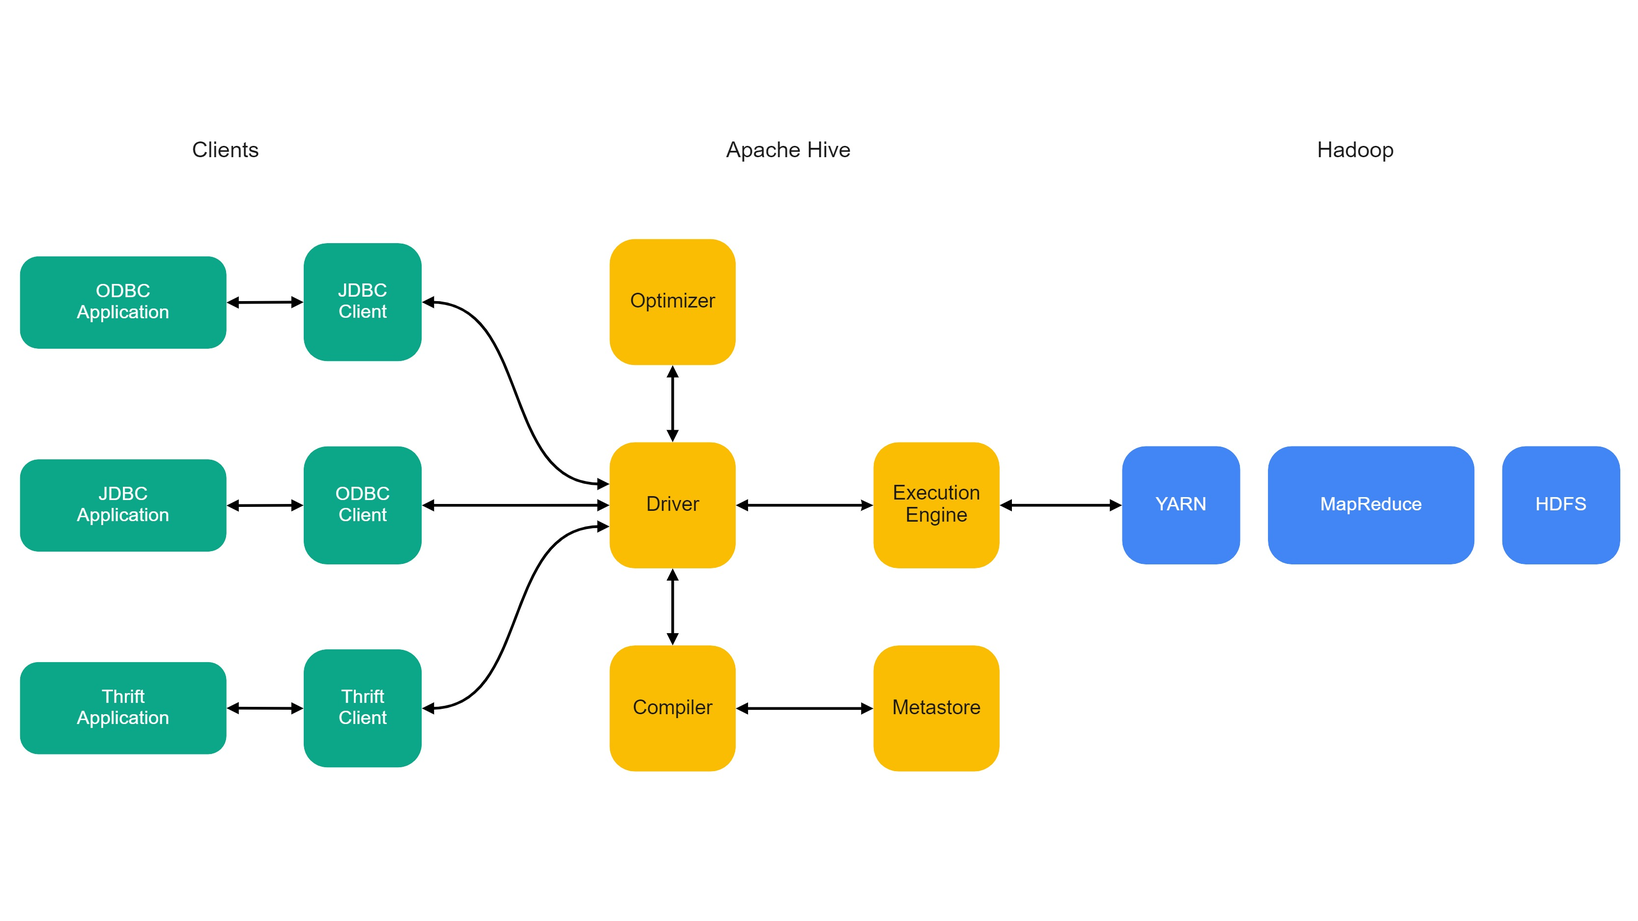
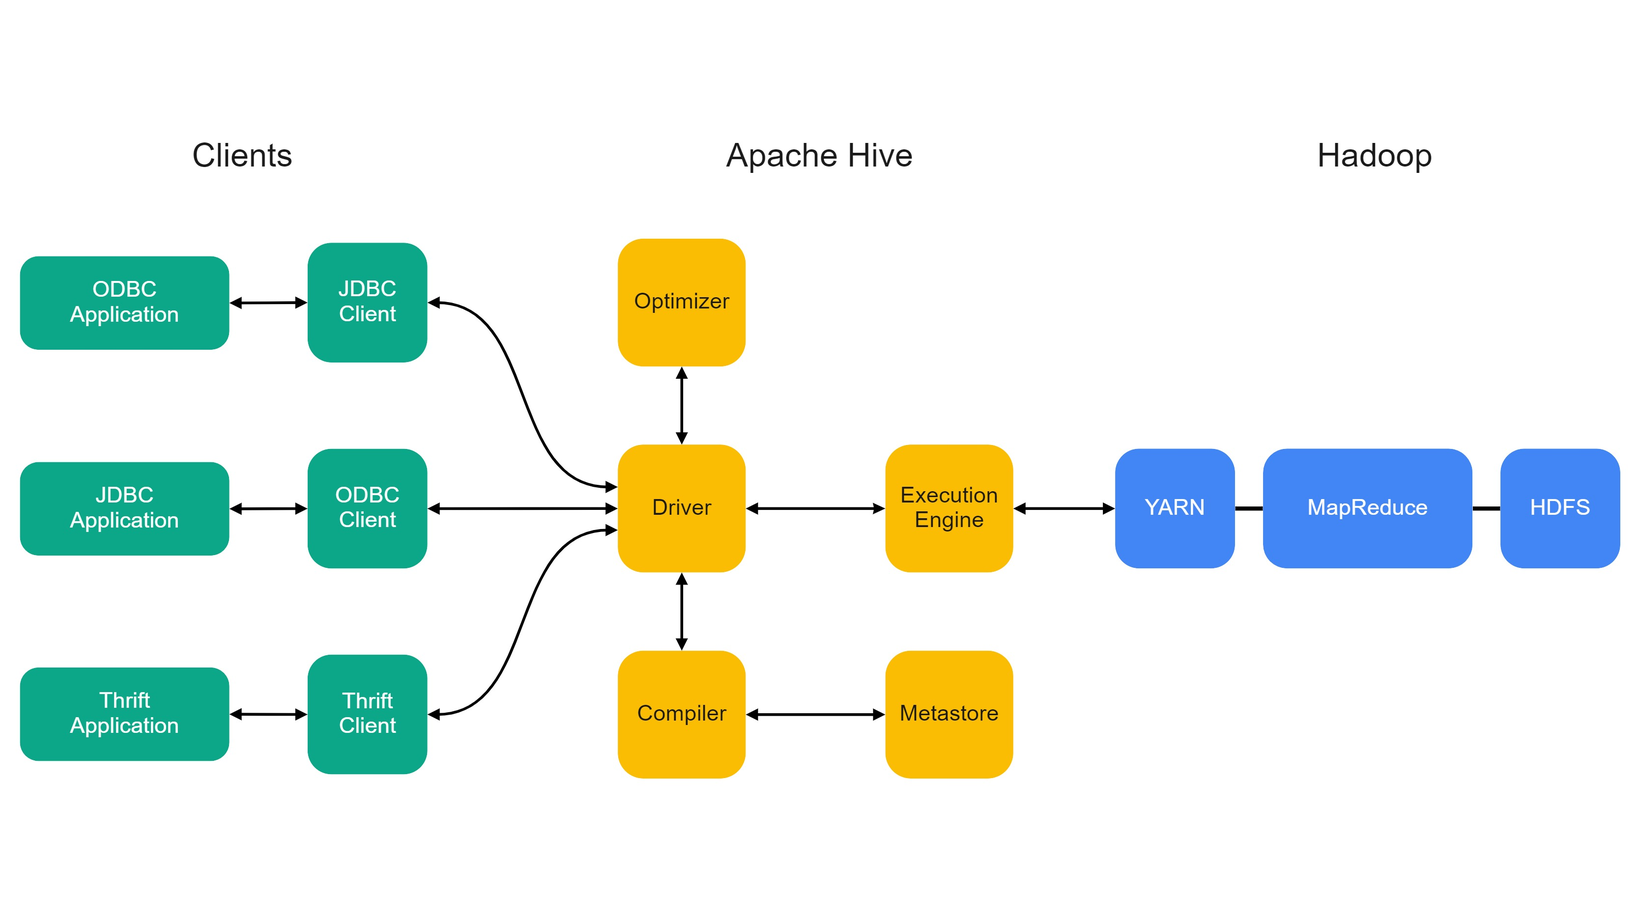
Add two paragraph to Apache Druid section

diff --git a/thesis.md b/thesis.md
@@ -5,7 +5,7 @@ subject: Evaluating performances of enterprise data lake solutions for MIND Food
 keywords: [Big Data, Data Lake, Performance Testing, Apache Hive, Apache Druid]
 ---
 
-<img src="C:\Users\Gabriele\AppData\Roaming\Typora\typora-user-images\image-20220202212948471.png" alt="image-20220202212948471" />
+<img src="./content/logo_statale.png" alt="Università degli Studi di Milano" />
 
 
 
@@ -89,7 +89,7 @@ The computing infrastructure, made by different modules, consists in:
 - Different software collection agents collect data from the rover and the on-field sensors and upload them to the Data Lake
 - A Data Lake platform to store sensor's data and supports data analysis
 - An hybrid GraphQL/REST API developed in Rust to access and consume data stored in the Data Lake platform
-- A client application to visualize raw and processed sensors data and by reading a QRcode that identifies a specific cultivation
+- FoodsAPP, a client application: a user could scan QRcode that identifies a specific cultivation to visualize its raw and processed sensors data
 
 The implementation of the computing infrastructure involved various technological partners; TIM, the first Italian provider of fixed, mobile and cloud infrastructures, developed the 5G network, the on-field sensors, and the client application.
 Multiple departments of Università Degli Studi di Milano have been involved in the MIND Foods HUB project. 
@@ -132,7 +132,7 @@ Over time the three Vs concepts of Big Data have been complemented by two additi
 These Big Data concepts heavily changed the shape of traditional data management systems, like Data Warehouses, that now need to support parallel data processing, complex analytical workflow, resilient and flexible storage capable of efficiently persisting data from several sources. Also, with the rise of new Big Data technologies, further models to store and analyze data have been developed to take advantage of the emerging new Big Data technologies; one for all: Data Lake systems.
 
 Historically, organizations that need to reconcile data from different Online Transaction Processing (**OLTP**) data sources employed a Data Warehouse system.
-A Data Warehouse is a system used for reporting and data analysis that store historical, time-variant collection of data in a single repository [14], typically operated by business end-users to support management's decision.
+A Data Warehouse is a system used for reporting and data analysis that store historical, time-variant collection of data in a single repository [15], typically operated by business end-users to support management's decision.
 Since data ingested into Data Warehouses usually comes from relational OLTP systems, the most used data processing paradigm in data warehousing is Extract, Transform, Load (**ETL )**.
 
 <figure>
@@ -142,21 +142,22 @@ Since data ingested into Data Warehouses usually comes from relational OLTP syst
 
 The standard ETL approach expects to extract data from different sources, apply some data transformation to adhere to the schema adopted to structure the data, and finally load it into the Data Warehouse. This process, also known as schema-on-write, allows efficient and fast reads operations at the cost of designing and maintaining a schema that describes the shape of the data.
 
-Data Lake is a term coined in 2011 by James Dixon [15], founder and former CTO of Pentaho: a Data Lake is a repository that stores large quantities and varieties of data in their raw format, independently from their source or structure. 
+Data Lake is a term coined in 2011 by James Dixon [16], founder and former CTO of Pentaho: a Data Lake is a repository that stores large quantities and varieties of data in their raw format, independently from their source or structure. 
 Unlike traditional Data Warehouses, which pursues an ETL approach, Data Lake systems use an Extract, Load, Transform (**ELT**) data processing paradigm. 
 
 <figure>
     <img src="./content/Data Lake.jpg"/>
     <figcaption>Figure 4: ELT</subfigcaption
 </figure>
-
 ELT doesn't apply any prior data transformation since a Data Lake can store structured, semi-structured or unstructured data. Instead, data is ingested as soon as it becomes available in its raw format, allowing for fast write operations and the advantage of preserving the original data structure. 
 Then, only during a particular analysis the required data is extracted and transformed in a structure suited to be interpreted, applying what is described as a schema-on-read process.
+
+<div style="page-break-after: always; visibility: hidden;"></div>
 
 ### 1.2 Hadoop
 
 Hadoop is an open-source framework that enables reliable, scalable, distributed computing.
-Started in 2002 as an open-source project by Doug Cutting and Mike Cafarella, that was developing a search engine capable to index 1 billion pages, the first version of Hadoop implemented two powerful computing concepts introduced by Google in 2003 and 2004: Google File System (**GFS**) [16], a scalable distributed file system for large distributed data-intensive applications, and MapReduce [17], a programming model for processing and generating large data sets.
+Started in 2002 as an open-source project by Doug Cutting and Mike Cafarella, that was developing a search engine capable to index 1 billion pages, the first version of Hadoop implemented two powerful computing concepts introduced by Google in 2003 and 2004: Google File System (**GFS**) [17], a scalable distributed file system for large distributed data-intensive applications, and MapReduce [18], a programming model for processing and generating large data sets.
 
 So, at its core, Hadoop is composed of two modules: storage and processing. The storage component is the Hadoop Distributed File System (**HDFS**), while the processing component is **MapReduce**.
 
@@ -220,7 +221,7 @@ The computing and storage nodes are the same, so the MapReduce framework and HDF
 
 #### YARN
 
-MapReduce jobs are scheduled by Hadoop's "Yet Another Resource Negotiator" (**YARN**) [18]. This Hadoop layer decouples the programming model from the resource management infrastructure and delegates many scheduling functions to per-application components.
+MapReduce jobs are scheduled by Hadoop's "Yet Another Resource Negotiator" (**YARN**) [19]. This Hadoop layer decouples the programming model from the resource management infrastructure and delegates many scheduling functions to per-application components.
 YARN, at its core, is composed of two processes: the **ResourceManager** and the **NodeManager**. 
 The ResourceManager is a process that runs on a dedicated node and is responsible for arbitrating cluster's resources among various contending jobs and scheduling job execution depending on resources availability.
 YARN resources are called *containers*, a logical set of resources (for example, 2 GB of RAM, 1 CPU) bound to a specific node of the cluster and reserved for executing a MapReduce job.
@@ -234,6 +235,8 @@ The TimelineServer collects the historical states for each completed MapReduce j
 - The elapsed time for the job execution
 - The final status of the job (succeeded, failed, etc.)
 - The allocated memory and virtual cores per container
+
+<div style="page-break-after: always; visibility: hidden;"></div>
 
 ### 1.3 Apache Hive
 
@@ -250,9 +253,10 @@ Apache Hive is engineered to be scalable, as more machines can be dynamically ad
 #### Design
 
 <figure>
-    <img src="./content/Apache Hive Architecture - Horizontal.jpg" alt="Query execution flow in Apache Hive" style="zoom: 67%;" />
+    <img src="./content/Apache Hive Architecture - Horizontal.jpg" alt="Query execution flow in Apache Hive" />
     <figcaption>Figure 7: Apache Hive architecture</figcaption>
 </figure>
+
 
 Figure 7 shows the architecture of Apache Hive and its main components:
 
@@ -266,12 +270,11 @@ Figure 7 shows the architecture of Apache Hive and its main components:
 
 #### Query execution
 
-
 When the Driver receives a query from a client, it creates a session handle for that client and forwards the query to the Compiler:
 
 1. The Compiler retrieves the necessary metadata from the Metastore; metadata is used to type-check the query expressions and eventually prune partitions data based on query predicates.
 2. The Compiler produces a query execution plan in the form of a DAG, where each vertex is a MapReduce job to be executed
-2. The Optimizer apply column pruning and other optimizations to the query execution plan
+2. The Optimizer applies column pruning and other optimizations to the query execution plan
 2. The Execution engine submits each MapReduce job of the query execution plan to Hadoop for parallel processing
 2. In each task, the SerDe deserializer associated with the table is used to read the rows from HDFS files and to return data to the client
 
@@ -288,7 +291,7 @@ For example, a query on T that satisfies the predicate `T.date='2022-02-02` woul
 
 #### SQL capabilities
 
-HiveQL supports all basic DDL and DML operations to work with tables and partitions; to name a few: the ability to select only specific columns using a `SELECT` clause, rows filtering using a `WHERE` clause, equi-joins between tables, data aggregations with multiple `GROUP BY` columns, store the results of a query into another table, manage databases, tables and partitions with the `CREATE`, `DROP` and `ALTER` statements.
+HiveQL supports all basic DDL, DQL and DML operations to work with tables and partitions; to name a few: the ability to select only specific columns using a `SELECT` clause, rows filtering using a `WHERE` clause, equi-joins between tables, data aggregations with multiple `GROUP BY` columns, store the results of a query into another table, manage databases, tables and partitions with the `CREATE`, `DROP` and `ALTER` statements.
 
 #### Ingestion
 
@@ -323,6 +326,8 @@ For example, the following statements create an external table `T` that points t
    INSERTO INTO V VALUES('Pi', 3.1415)
    ```
 
+<div style="page-break-after: always; visibility: hidden;"></div>
+
 ### 1.4 Apache Druid
 
 Apache Druid is an open-source distributed data store that supports various modern applications, like real-time analytics on large data-sets and fast data aggregations for highly concurrent APIs.
@@ -337,7 +342,7 @@ Apache Druid architecture combines ideas from different storage systems (Data Wa
 
 #### Design
 
-Apache Druid is a multi-process distributed data store designed to be deployed in a cluster. Each system component can be configured and scaled independently depending on the system's needs.
+Apache Druid is a multi-process distributed data store designed to be deployed in a cluster. Each system component can be configured and scaled independently based on the system's needs.
 Apache Druid processes are the following:
 
 - **Coordinator**: it is responsible for managing data availability and distribution on the cluster. The Coordinator instructs the Historical process to load new segments, drop outdated segments, ensure that segments are correctly replicated across the Historical process, and distribute segments between Historical nodes to keep the latter evenly loaded.
@@ -345,7 +350,7 @@ Apache Druid processes are the following:
 - **Broker**: it is responsible for forwarding queries to the Historical processes, depending on the location of the segments.
   A Broker understands what segments exist on what Historical processes depending on the time partitioning and route queries to execute them on the correct nodes. The Broker also merges the result sets of a query from all individual Historical involved in the load operation.
 - **Historical**: it stores historical queryable data. Since Druid data is time partitioned into segments, each Historical process, usually multiple per cluster, is responsible for loading and serving data about a specific segment when instructed by the Coordinator or the Broker. Data is generally stored in a distributed file system and loaded into Historical memory every time a read/write operation is requested.
-**Overlord**: it is responsible for accepting ingestion tasks, assigning them to the MiddleManagers and coordinating data publishing on the distributed storage.
+- **Overlord**: it is responsible for accepting ingestion tasks, assigning them to the MiddleManagers and coordinating data publishing on the distributed storage.
 - **MiddleManager**: it handles ingestion of new data into the cluster; MiddleManagers are responsible for reading data from external sources and publishing new Druid segments.
 
 <figure>
@@ -359,26 +364,41 @@ Master servers manage data ingestion and availability; they are composed of the 
 Apache Druid also relies on three external dependencies: **Deep storage**, covered in the related section, **Metadata** **storage**, and **ZooKeeper**.
 The Metadata storage stores various system metadata, like the number of segments available on the cluster and their usage, internal task status, etc. It is typically employed as an external relational database on clustered deployments, like MySQL or PostgreSQL.
 
-ZooKeeper is an open-source coordination service [19] used to maintain centralized configuration, naming, and synchronization for distributed applications. For example, Apache Druid uses ZooKeeper for internal service discovery, coordination between the processes, and leader election.
+ZooKeeper is an open-source coordination service [20] used to maintain centralized configuration, naming, and synchronization for distributed applications. For example, Apache Druid uses ZooKeeper for internal service discovery, coordination between the processes, and leader election.
 
 #### Query Execution
 
 Apache Druid query execution follows a Scatter/Gather [20] approach to retrieve data from the Historical processes;
 The execution flow is the following:
 
-1. The Broker identifies
+1. A client submits a query to the Broker (or the Router) via HTTP or by using the Apache Avatica JDBC drivers
+1. The Broker identifies which segments are pertinent to the query based on the time interval specified by the query
+1. The Broker eventually prune the identified segments based on the `WHERE` clause
+1. The Broker forwards the query to the relevant Historical processes
+1. Historicals process each segment in parallel and generate a partial result
+1. The Broker receives partial results from each Historical, merge them into the final results set and return the data to the caller
 
 #### Data model and Storage
 
-Apache Druid data model
+Apache Druid data is organized into **datasources**, similar to relational databases tables: homogenous units of data within the same schema. A datasource must always include a primary timestamp that Druid stores in the `__time` column of the datasource. The primary timestamp is used to partition, sort, and manage the data across the Historical processes.
+
+Datasources columns are of two types: **dimensions** and **metrics**. Dimensions are columns that Druid stores in their original format, and represents the relevant and descriptive attributes of the data; they can be filtered, grouped, and aggregated at query time. Metrics are columns that Druid stores in an aggregated form; during ingestion, a user can apply an aggregation function (count, sum, min/max, etc.) to each computed row.
+
+Datasources are time partitioned: each time interval, for example, a month, is called a chunk;  a chunk is additionally partitioned into one or more segments. Formally, a segment is defined as a collection of rows of data, typically 5–10 million, that span an interval of time [21]. A segment comprises different files that store various data structures to arrange columns data so that Apache Druid can extract only those needed for a query.
+Depending on the column data type, two compression algorithms, LZ4 [22] and Roaring [23], are used to reduce the cost of storing a column in memory and on disk.
+Deep storage is an external, shared file system accessible by the cluster; Apache Druid uses Deep storage to store segments; typically, in a clustered deployment, Deep storage is a distributed file system like HDFS.
+It's important to note that Druid never accesses the Deep storage at query time: Historical processes load segments from the Deep storage when instructed by the Coordinator and serve them from their local disk as well from memory when the Broker requests a query.
 
 #### SQL capabilities
 
-Apache Druid SQL
+Apache Druid supports two query languages: Druid SQL, a declarative language similar to SQL, and native queries, which are JSON objects that describe how to filter, group, or aggregate data. Apache Druid automatically translates Druid SQL into a native query every time a query hits a Broker.
+Druid SQL capabilities are limited: it only supports `SELECT` queries. This means that DDL statements like CREATE`, `ALTER or DROP, or typical DML statements like `INSERT` and `UPDATE` are not supported. Also, Druid SQL only supports equality `JOIN` between native datasources.
 
 #### Ingestion
 
 Apache Druid ingestion
+
+<div style="page-break-after: always; visibility: hidden;"></div>
 
 ### 1.5 Apache JMeter
 
@@ -707,7 +727,7 @@ Data was loaded from the temporary HDFS folder on the NameNode using the followi
 <sub>Table 1: Ingestion numbers</sub>
 
 Table 1 reports the number of partitions, the data size on HDFS and the total disk space used for data replication, the computed ingestion time for each database. 
-It's worth observing that Apache Druid consume significantly less disk space on HDFS since it automatically compresses segment data with LZ4 [18] and Roaring [19] algorithms.
+It's worth observing that Apache Druid consume significantly less disk space on HDFS since it automatically compresses segment data with LZ4 and Roaring algorithms.
 Apache Druid was 55,8% faster than Apache Hive to import 50 million rows.
 
 ### 2.4 Queries
@@ -864,9 +884,8 @@ Therefore, all tests were executed in [CLI Mode](https://jmeter.apache.org/userm
 
 Each JMeter execution produced a CSV data-set containing the test results for each platform (one for Hive, the other for Druid); I imported test results in JMeter to calculate, for each sample: Average response time, Minimum response time, Maximum response time, and Average response time Standard Deviation.
 
-Also, I compared each query's Average response time with ResultsComparator [18] plugin to quantify the performance difference between Apache Hive and Apache Druid executions by calculating Cohen's *d* [19] of the samplers, which is one of the most popular measures of the effect size.
+Also, I compared each query's Average response time with ResultsComparator [] plugin to quantify the performance difference between Apache Hive and Apache Druid executions by calculating Cohen's *d* [] of the samplers, which is one of the most popular measures of the effect size.
 Cohen's *d* is defined as the difference between two means divided by a standard deviation for the data:
-
 $$
 d=\frac{\bar{x}_{1}-\bar{x}_{2}}{s}
 $$
@@ -1055,7 +1074,7 @@ Thesis conclusions.
 
 [8] The Apache Software Foundation, "Apache JMeter". [Internet]. Available from: https://jmeter.apache.org/
 
-[9] Arne von See, "Volume of data/information created, captured, copied, and consumed worldwide from 2010 to 2025" 2020.[Internet]. Available from: https://www.statista.com/statistics/871513/worldwide-data-created/
+[9] Arne von See, "Volume of data/information created, captured, copied, and consumed worldwide from 2010 to 2025" 2020. [Internet]. Available from: https://www.statista.com/statistics/871513/worldwide-data-created/
 
 [10] D. Reinsel, J. Gantz and J. Rydning," Data Age 2025: The Digitization of the World From Edge to Core" International Data Corporation, 2018.
 
@@ -1065,28 +1084,30 @@ Thesis conclusions.
 
 [13] L. Douglas, "3d data management: Controlling data volume, velocity and variety", Meta Group, 2001.
 
-[14] M. Schroeck, R. Shockley, J. Smart, D. Romero-Morales, P. Tufano, "Analytics: The Real-World Use of Big Data: How Innovative Enterprises Extract Value from Uncertain Data. Executive Report", IBM, 2012. [Online]. Available from: https://www.bdvc.nl/images/Rapporten/GBE03519USEN.PDF
+[14] M. Schroeck, R. Shockley, J. Smart, D. Romero-Morales, P. Tufano, "Analytics: The Real-World Use of Big Data: How Innovative Enterprises Extract Value from Uncertain Data. Executive Report", IBM, 2012. [Internet]. Available from: https://www.bdvc.nl/images/Rapporten/GBE03519USEN.PDF
 
-[14] W. Inmon, "Building the Data Warehouse", John Wiley and Sons, 2005.
+[15] W. Inmon, "Building the Data Warehouse", John Wiley and Sons, 2005.
 
-[15] J. Dixon, "Pentaho, Hadoop, and Data Lakes", 2010. [Internet]. Available from: https://jamesdixon.wordpress.com/2010/10/14/pentaho-hadoop-and-data-lakes/
+[16] J. Dixon, "Pentaho, Hadoop, and Data Lakes", 2010. [Internet]. Available from: https://jamesdixon.wordpress.com/2010/10/14/pentaho-hadoop-and-data-lakes/
 
-[16] S. Ghemawat, H. Gobioff, S. Leung, "The Google File System", "Proceedings of the 19th ACM Symposium on Operating Systems Principles", ACM, Bolton Landing, NY, pp. 20-43. 2003. [Internet] Available from: https://research.google/pubs/pub51/
+[17] S. Ghemawat, H. Gobioff, S. Leung, "The Google File System", "Proceedings of the 19th ACM Symposium on Operating Systems Principles", ACM, Bolton Landing, NY, pp. 20-43. 2003. [Internet] Available from: https://research.google/pubs/pub51/
 
-[17] J. Dean, S. Ghemawat, "MapReduce: Simplified Data Processing on Large Clusters", "OSDI 04: Sixth Symposium on Operating System Design and Implementation", San Francisco, CA, pp. 137-150, 2004. [Internet] Available from: https://research.google/pubs/pub62/
+[18] J. Dean, S. Ghemawat, "MapReduce: Simplified Data Processing on Large Clusters", "OSDI 04: Sixth Symposium on Operating System Design and Implementation", San Francisco, CA, pp. 137-150, 2004. [Internet]. Available from: https://research.google/pubs/pub62/
 
-[18] Vavilapalli VK, Murthy AC, Douglas C, Agarwal S, Konar M, Evans R, Graves T, Lowe J, Shah H, Seth S, "Apache Hadoop YARN: Yet another resource negotiator", Proceedings of the 4th Annual Symposium on Cloud Computing, Santa Clara, CA, USA, 1–3 October. ACM, New York, NY, USA, pp 5: 1–5:16.  2013
+[19] Vavilapalli VK, Murthy AC, Douglas C, Agarwal S, Konar M, Evans R, Graves T, Lowe J, Shah H, Seth S, "Apache Hadoop YARN: Yet another resource negotiator", Proceedings of the 4th Annual Symposium on Cloud Computing, Santa Clara, CA, USA, 1–3 October. ACM, New York, NY, USA, pp 5: 1–5:16.  2013
 
-[19] D. R. Cutting, D. R. Karger, J. O. Pedersen, J. W. Tukey, “Scatter / Gather: Browsing A Cluster-based Large Document Collections", Sigir '92, pp. 318–329, 1992
+[20] D. R. Cutting, D. R. Karger, J. O. Pedersen, J. W. Tukey, “Scatter / Gather: Browsing A Cluster-based Large Document Collections", Sigir '92, pp. 318–329, 1992
 
-[20] The Apache Software Foundation, "Apache ZooKeeper". [Internet]. Available from: https://zookeeper.apache.org/
+[21] The Apache Software Foundation, "Apache ZooKeeper". [Internet]. Available from: https://zookeeper.apache.org/
 
-[18] Y. Collet, "LZ4 - extremely fast compression". [Online]. Available from: https://lz4.github.io/lz4/
+[22] F. Yang, E. Tschetter, X. Léauté, N. Ray, G. Merlino, D. Ganguli, "Druid: A real-time analytical data store", Proceedings of the ACM SIGMOD International Conference on Management of Data. 2014
 
-[19] D. Lemire, G. Ssi-Yan-Kai, and O. Kaser, "Consistently faster and smaller compressed bitmaps with Roaring", Software: Practice and Experience, 46(11): pp- 1547–1569. 2016
+[] Y. Collet, "LZ4 - extremely fast compression". [Internet]. Available from: https://lz4.github.io/lz4/
 
-[18] rbourga, Results Comparator Plugin. [Internet] Available from: https://github.com/rbourga/jmeter-plugins-2/blob/main/tools/resultscomparator/src/site/dat/wiki/ResultsComparator.wiki
+[] D. Lemire, G. Ssi-Yan-Kai, and O. Kaser, "Consistently faster and smaller compressed bitmaps with Roaring", Software: Practice and Experience, 46(11): pp- 1547–1569. 2016
 
-[18] J. Cohen, "Statistical Power Analysis for the Behavioral Sciences", Routledge, 1988.
+[] rbourga, Results Comparator Plugin. [Internet]. Available from: https://github.com/rbourga/jmeter-plugins-2/blob/main/tools/resultscomparator/src/site/dat/wiki/ResultsComparator.wiki
 
-[19]  S Sawilowsky, "New effect size rules of thumb", Journal of Modern Applied Statistical Methods, Vol. 8: Iss. 2, 2009 [Internet] Available from: https://digitalcommons.wayne.edu/jmasm/vol8/iss2/26/
+[] J. Cohen, "Statistical Power Analysis for the Behavioral Sciences", Routledge, 1988.
+
+[]  S Sawilowsky, "New effect size rules of thumb", Journal of Modern Applied Statistical Methods, Vol. 8: Iss. 2, 2009 [Internet]. Available from: https://digitalcommons.wayne.edu/jmasm/vol8/iss2/26/
